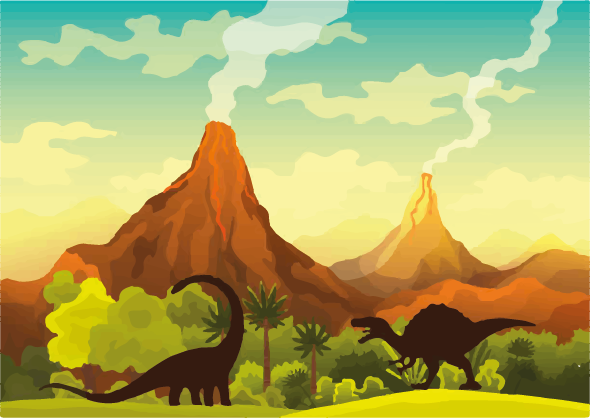
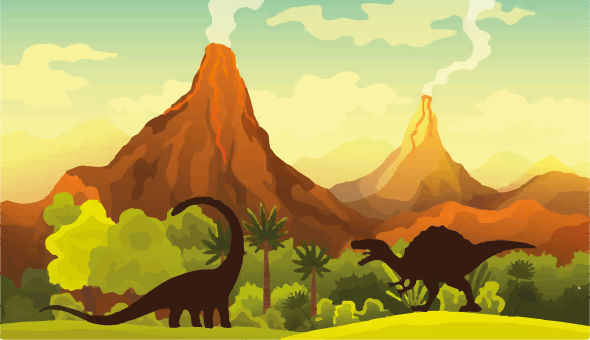
.

diff --git a/game.js b/game.js
@@ -28,7 +28,7 @@ function steuerung() {
 //   return true;
 // }
 
-function futterErstellen() {
+function objekteErstellen() {
   if (timerObjektErstellen.ready()) {
     let zuefallFutter = Math.random() * 800;
     let foods = document.createElement("div");
@@ -119,8 +119,7 @@ function loop() {
   // if (anleitung()) {
   //   return;
   // }
-  // hindernisErstellen();
-  futterErstellen();
+  objekteErstellen();
   hindernisBewegen();
   futterBewegen();
   scoreHigher();

diff --git a/style.css b/style.css
@@ -10,7 +10,7 @@ body {
   position: relative;
   width: inherit;
   height: inherit;
-  background-image: url("images/Hingergrund/Hintergrund.png");
+  background-image: url("images/Hingergrund/Hintergrund.svg");
   background-size: cover;
 }
 
